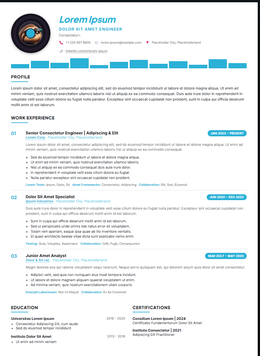
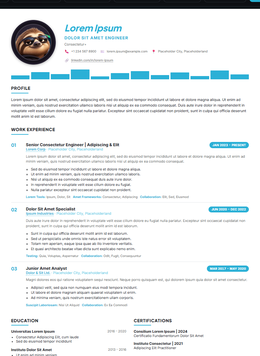
Fix layout bugs in modelo 33, 28, and 39
- Modelo 33: skill/date badges used asymmetric organic-blob border-radius
  which clipped their own text; switched to clean pill/rounded-rect shapes.
- Modelo 28: a decorative "vinyl label" circle with no position offset was
  overlapping the profile photo; removed it and enlarged the photo (62%->82%
  of frame, 32mm->36mm frame).
- Modelo 39: profile photo was undersized (32% of a 30mm frame); enlarged to
  76% of a 36mm frame and removed the now-redundant label ring.
- Regenerated gallery thumbnails for the three affected templates.

Changed region(s): [[0.0, 0.0, 1.0, 1.0], [0.0308, 0.5253, 0.0615, 0.618], [0.0308, 0.7107, 0.0615, 0.7725]]

diff --git a/css/style.css b/css/style.css
@@ -2486,26 +2486,17 @@ a.btn { display: inline-block; text-decoration: none; }
 }
 .cv-m28-vinilo {
   position: relative;
-  width: calc(32mm * var(--cv-escala-foto, 1));
-  height: calc(32mm * var(--cv-escala-foto, 1));
+  width: calc(36mm * var(--cv-escala-foto, 1));
+  height: calc(36mm * var(--cv-escala-foto, 1));
   border-radius: 50%;
   flex-shrink: 0;
   background: repeating-radial-gradient(circle at center, #16121c 0 2.4mm, #221c2c 2.4mm 4.8mm);
   box-shadow: 0 2px 8px rgba(0,0,0,0.35);
   display: flex; align-items: center; justify-content: center;
 }
-.cv-m28-vinilo::after {
-  content: "";
-  position: absolute;
-  width: 22%; height: 22%;
-  border-radius: 50%;
-  background: linear-gradient(135deg, var(--cv-acento), var(--cv-acento-2));
-  z-index: 2;
-  box-shadow: 0 0 0 2px #16121c;
-}
 .cv-m28-foto, .cv-m28-foto-placeholder {
   position: relative;
-  width: 62%; height: 62%;
+  width: 82%; height: 82%;
   border-radius: 50%;
   object-fit: cover;
   z-index: 1;
@@ -3229,7 +3220,7 @@ a.btn { display: inline-block; text-decoration: none; }
   font-size: 8pt; padding: 1.3mm 3mm;
   background: linear-gradient(120deg, var(--cv-acento), var(--cv-acento-2));
   color: var(--cv-acento-texto);
-  border-radius: 60% 40% 50% 50% / 55% 55% 45% 45%;
+  border-radius: 999px;
 }
 .cv-m33-pill-alt { background: color-mix(in srgb, var(--cv-lateral-texto) 12%, transparent); color: var(--cv-lateral-texto); }
 
@@ -3260,7 +3251,7 @@ a.btn { display: inline-block; text-decoration: none; }
 .cv-m33-job-empresa .cv-ubicacion { color: var(--cv-tenue); font-weight: 400; }
 .cv-m33-job-rol { font-size: 9pt; color: var(--cv-acento-2); font-weight: 600; }
 .cv-m33-job-fecha {
-  font-size: 8pt; padding: 1mm 3mm; border-radius: 40% 60% 60% 40% / 50%;
+  font-size: 8pt; padding: 1mm 3mm; border-radius: 999px;
   background: var(--cv-acento-2); color: var(--cv-badge-texto); white-space: nowrap;
 }
 .cv-m33-job-desc { font-size: 9pt; color: var(--cv-texto); margin: 2mm 0; }
@@ -3269,7 +3260,7 @@ a.btn { display: inline-block; text-decoration: none; }
 .cv-m33-job-tools { display: flex; flex-wrap: wrap; gap: 2mm; margin-top: 2mm; }
 .cv-m33-tool { font-size: 8pt; color: var(--cv-tenue); background: color-mix(in srgb, var(--cv-acento) 10%, transparent); padding: 1mm 2.5mm; border-radius: 3mm; }
 
-.cv-m33-edu, .cv-m33-cert { margin-bottom: 4mm; padding: 3mm 4mm; border-radius: 55% 45% 50% 50% / 30% 30% 70% 70%; background: color-mix(in srgb, var(--cv-acento) 7%, transparent); }
+.cv-m33-edu, .cv-m33-cert { margin-bottom: 4mm; padding: 3mm 4mm; border-radius: 3mm 8mm 3mm 8mm; background: color-mix(in srgb, var(--cv-acento) 7%, transparent); }
 .cv-m33-edu-head, .cv-m33-cert { display: flex; justify-content: space-between; gap: 3mm; flex-wrap: wrap; }
 .cv-m33-edu-inst, .cv-m33-cert-titulo { font-weight: 700; color: var(--cv-texto); }
 .cv-m33-edu-fecha { font-size: 8pt; color: var(--cv-tenue); }
@@ -3843,24 +3834,19 @@ a.btn { display: inline-block; text-decoration: none; }
 
 .cv-m39-header { text-align: center; padding: 10mm 12mm 6mm; position: relative; }
 .cv-m39-vinilo {
-  width: calc(30mm * var(--cv-escala-foto, 1));
-  height: calc(30mm * var(--cv-escala-foto, 1));
+  width: calc(36mm * var(--cv-escala-foto, 1));
+  height: calc(36mm * var(--cv-escala-foto, 1));
   margin: 0 auto 4mm;
   border-radius: 50%;
-  background: radial-gradient(circle, #1a1a1a 0 18%, #0b0714 19% 21%, #1a1a1a 22% 32%, #0b0714 33% 35%, #1a1a1a 36%);
+  background: radial-gradient(circle, #1a1a1a 0 78%, #0b0714 79% 82%, #1a1a1a 83% 92%, #0b0714 93% 96%, #1a1a1a 97%);
   position: relative;
   box-shadow: 0 0 6mm rgba(200,0,255,0.45), 0 0 2mm rgba(0,225,255,0.4);
   display: flex; align-items: center; justify-content: center;
 }
-.cv-m39-vinilo::after {
-  content: ""; position: absolute; width: 34%; height: 34%; border-radius: 50%;
-  background: linear-gradient(135deg, var(--cv-acento), var(--cv-acento-2));
-  z-index: 1; box-shadow: 0 0 2mm rgba(255,255,255,0.4);
-}
 .cv-m39-foto, .cv-m39-foto-placeholder {
-  width: 32%; height: 32%; border-radius: 50%; object-fit: cover; position: relative; z-index: 2;
+  width: 76%; height: 76%; border-radius: 50%; object-fit: cover; position: relative; z-index: 2;
   display: flex; align-items: center; justify-content: center;
-  font-size: calc(6mm * var(--cv-escala-foto, 1));
+  font-size: calc(8mm * var(--cv-escala-foto, 1));
   background: #0b0714;
 }
 .cv-m39-nombre {

diff --git a/index.html b/index.html
@@ -13,7 +13,7 @@
 <link rel="preconnect" href="https://fonts.googleapis.com">
 <link rel="preconnect" href="https://fonts.gstatic.com" crossorigin>
 
-<link rel="stylesheet" href="css/style.css?v=38">
+<link rel="stylesheet" href="css/style.css?v=39">
 </head>
 <body>
 
@@ -539,7 +539,7 @@
        no rompe la página) y js/app.js sigue con el ejemplo lorem-ipsum.
        Tiene que ir ANTES de app.js: es lo único que decide qué datos
        arrancan como estado inicial. -->
-  <script src="js/datos-privados.js?v=38"></script>
-  <script src="js/app.js?v=38"></script>
+  <script src="js/datos-privados.js?v=39"></script>
+  <script src="js/app.js?v=39"></script>
 </body>
 </html>
